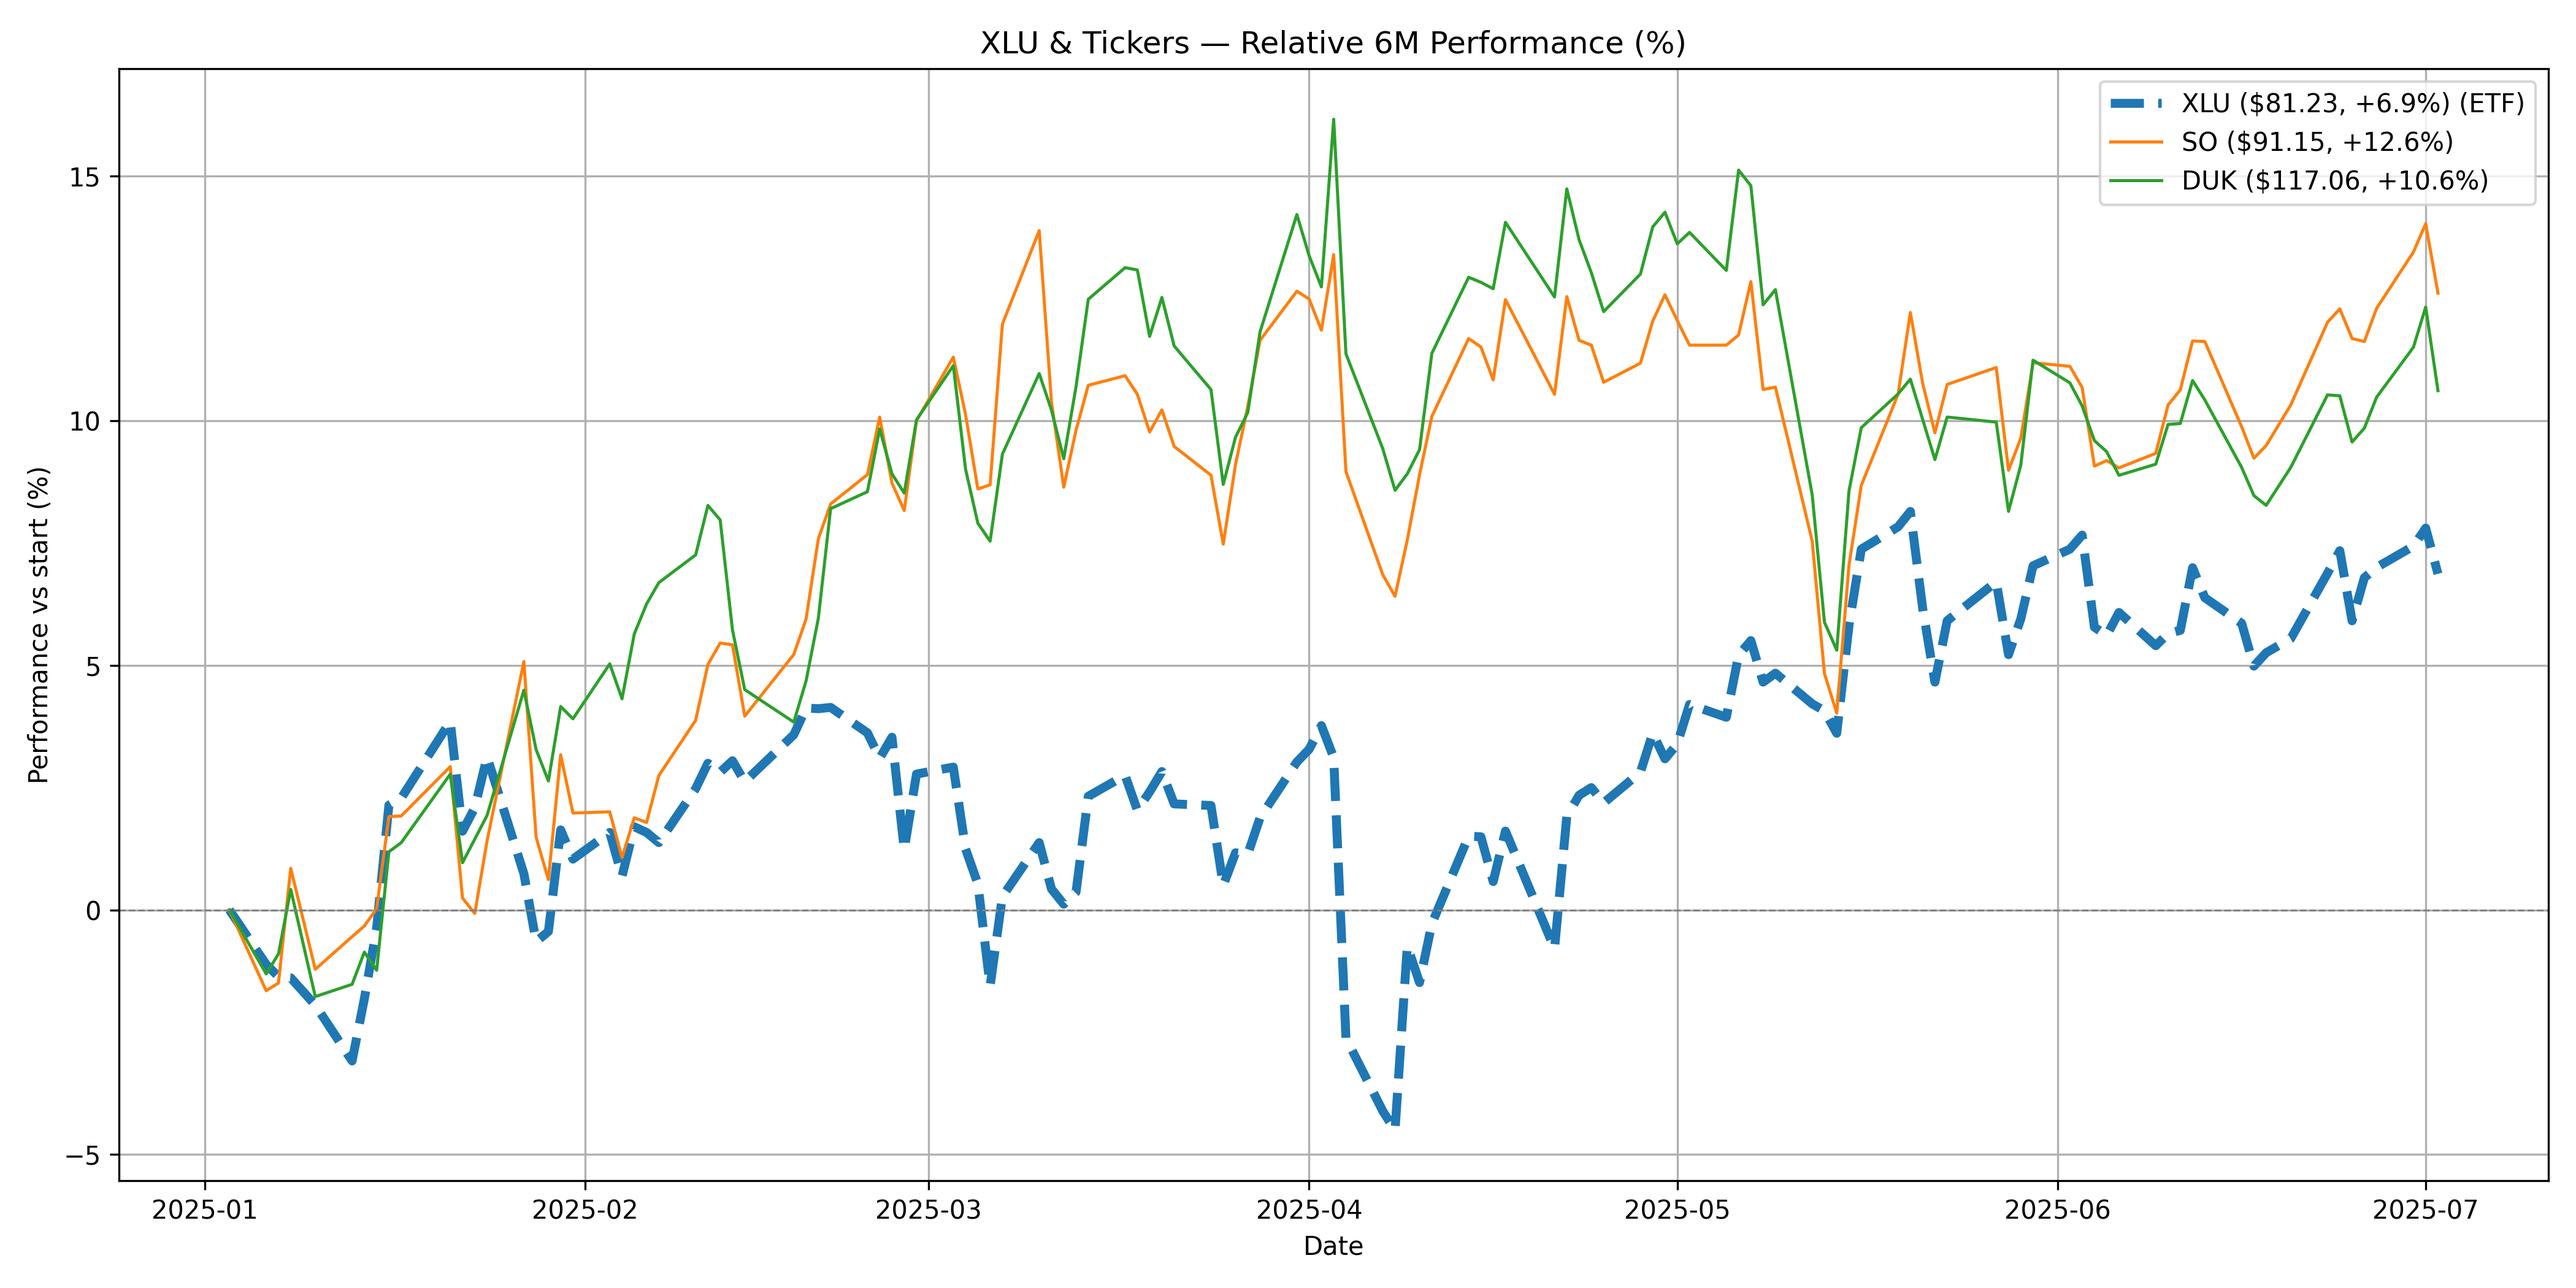
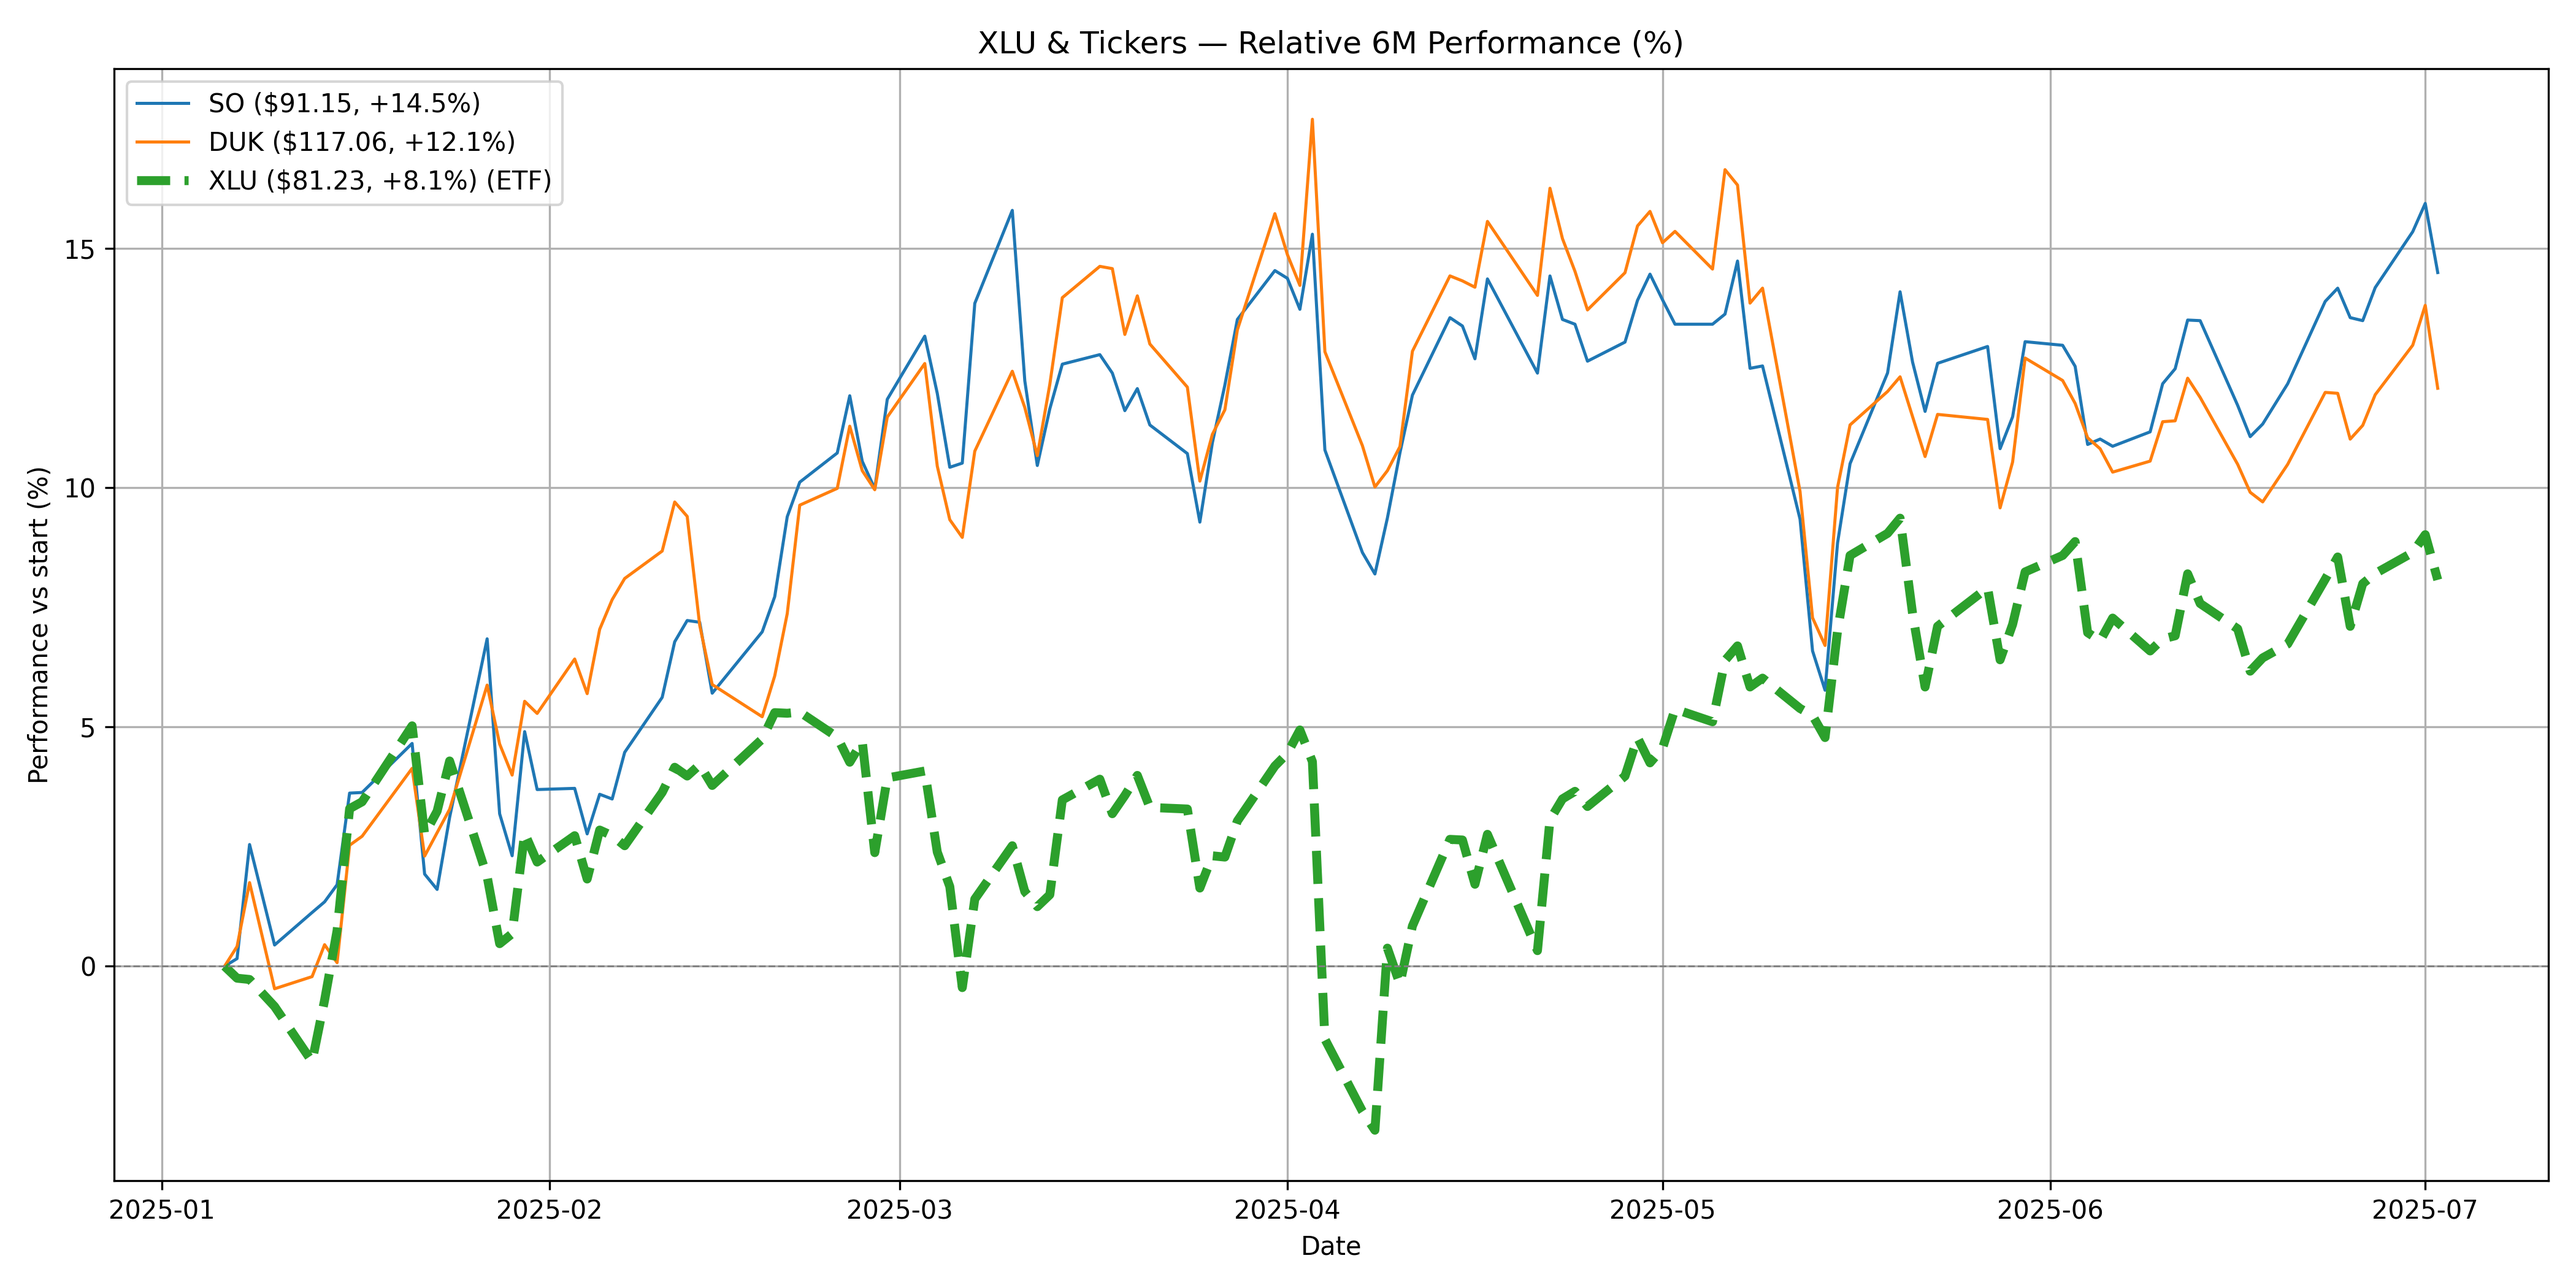
plot by desc order of perf

diff --git a/step7_plot_candidates.py b/step7_plot_candidates.py
@@ -205,7 +205,75 @@ def unused_plot_etf_tickers_relative(etf, tickers, base_path="./databases/ticker
     plt.tight_layout()
     plt.show()
 
+
 def plot_etf_tickers_relative(etf, tickers, base_path="./databases/ticker_dbs", output_dir="./etf_charts", period="6m"):
+    if not tickers:
+        print(f"No tickers found for ETF '{etf}'.")
+        return
+
+    os.makedirs(output_dir, exist_ok=True)
+    tickers = [etf] + [t for t in tickers if t != etf]
+
+    start_date = get_start_date_from_period(period)
+    start_date = pd.to_datetime(start_date).normalize()
+
+    ticker_data = []
+    for ticker in tickers:
+        db_path = os.path.join(base_path, f"{ticker}.db")
+        if not os.path.exists(db_path):
+            print(f"DB for {ticker} not found. Skipping.")
+            continue
+
+        try:
+            with sqlite3.connect(db_path) as conn:
+                df = pd.read_sql("SELECT Date, Close FROM history", conn, parse_dates=["Date"])
+                df.sort_values("Date", inplace=True)
+                df["Date"] = pd.to_datetime(df["Date"])
+                df = df[df["Date"] >= start_date]
+                if df.empty:
+                    print(f"No data for {ticker} after {start_date.date()}. Skipping.")
+                    continue
+
+                df["Pct"] = (df["Close"] / df["Close"].iloc[0] - 1) * 100
+                last_price = df["Close"].iloc[-1]
+                perf = df["Pct"].iloc[-1]
+                ticker_data.append((ticker, df, last_price, perf))
+        except Exception as e:
+            print(f"Error reading {ticker}: {e}")
+            continue
+
+    if not ticker_data:
+        print("No valid data to plot.")
+        return
+
+    # Sort by performance (ascending)
+    ticker_data.sort(key=lambda x: x[3], reverse=True)
+
+    plt.figure(figsize=(14, 7))
+
+    for ticker, df, last_price, perf in ticker_data:
+        label = f"{ticker} (${last_price:.2f}, {perf:+.1f}%)"
+        if ticker == etf:
+            label += " (ETF)"
+            plt.plot(df["Date"], df["Pct"], label=label, linewidth=3.5, linestyle="--")
+        else:
+            plt.plot(df["Date"], df["Pct"], label=label, linewidth=1.2)
+
+    plt.title(f"{etf} & Tickers — Relative {period.upper()} Performance (%)")
+    plt.xlabel("Date")
+    plt.ylabel("Performance vs start (%)")
+    plt.axhline(0, color='gray', linestyle='--', linewidth=0.7)
+    plt.legend()
+    plt.grid(True)
+    plt.tight_layout()
+
+    save_path = os.path.join(output_dir, f"{etf}_relative.png")
+    plt.savefig(save_path, dpi=300)
+    plt.close()
+    print(f"✅ Saved plot to {save_path}")
+
+
+def plot_etf_tickers_relative3(etf, tickers, base_path="./databases/ticker_dbs", output_dir="./etf_charts", period="6m"):
     if not tickers:
         print(f"No tickers found for ETF '{etf}'.")
         return
@@ -246,7 +314,8 @@ def plot_etf_tickers_relative(etf, tickers, base_path="./databases/ticker_dbs", 
         print("No valid data to plot.")
         return
 
-    ticker_data.sort(key=lambda x: x[2])
+    #ticker_data.sort(key=lambda x: x[2])
+    ticker_data.sort(key=lambda x: x[2], reverse=True)
 
     plt.figure(figsize=(14, 7))
 
